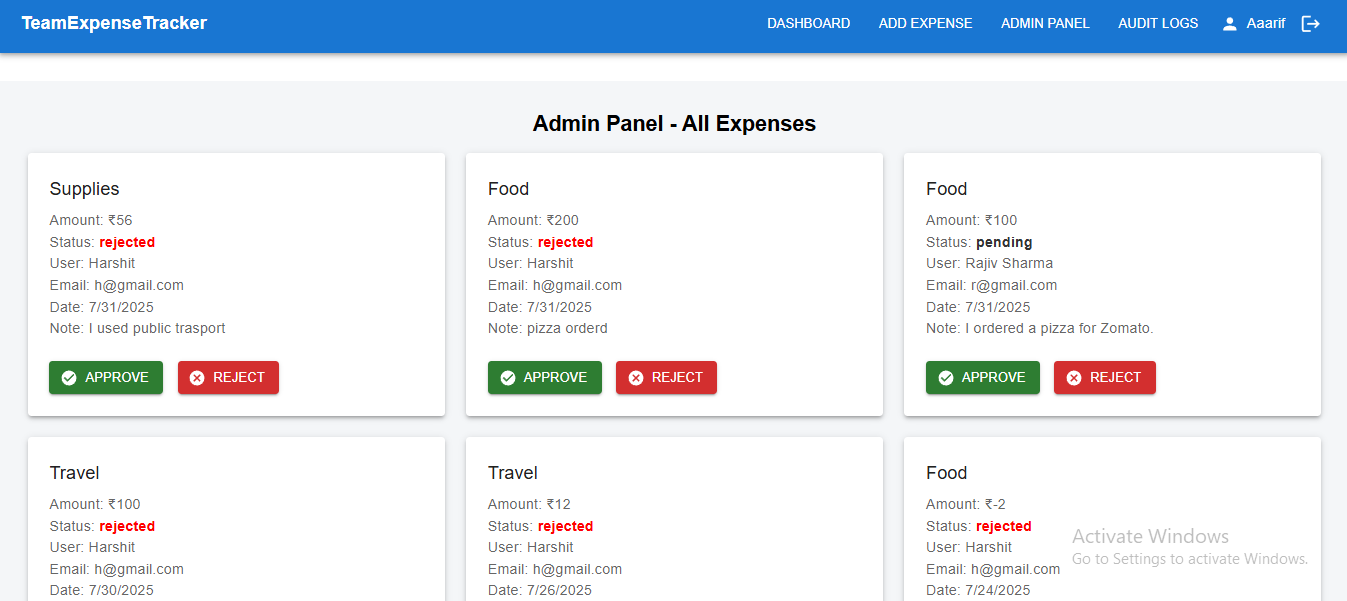
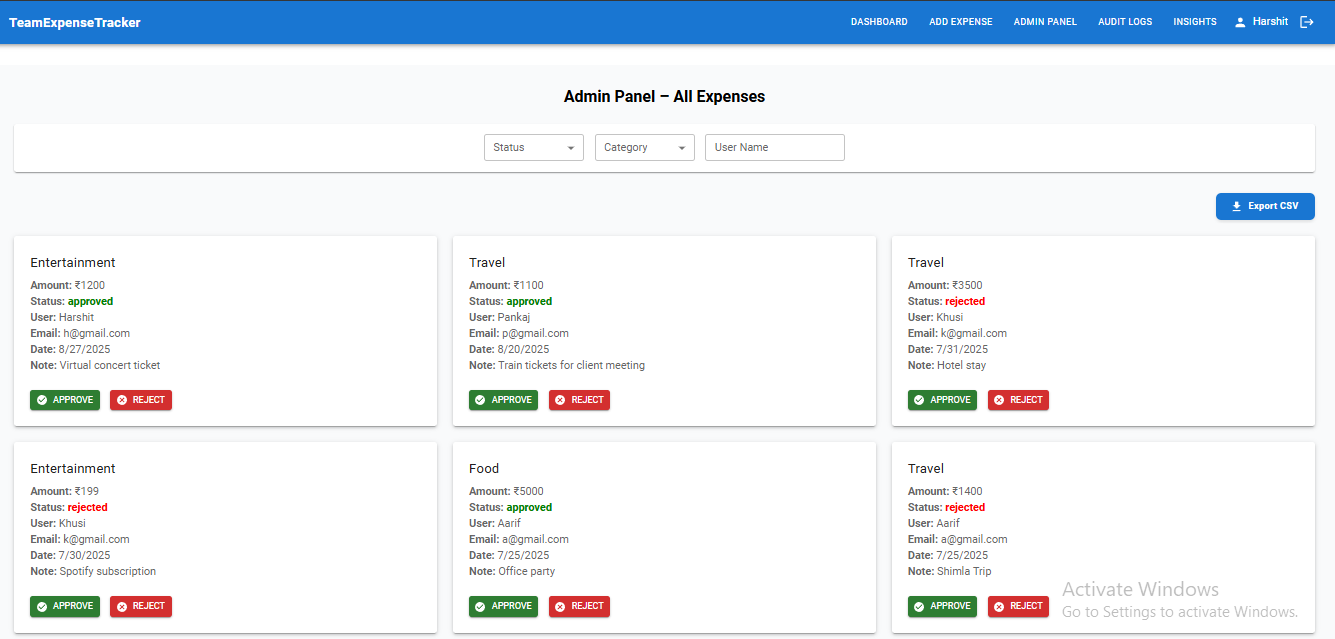
readme updated

diff --git a/README.md b/README.md
@@ -16,11 +16,14 @@ A full-stack MERN (MongoDB, Express, React, Node.js) application to manage and t
 ## 📦 Features
 
 - User Registration & Login (JWT-based)
-- Add/Edit/Delete Expenses
-- Expense filtering by date/category
-- Dashboard with total and recent expenses
-- Responsive UI using Material UI / TailwindCSS
-- Toast notifications for feedback
+- Add, Edit, and Delete Expenses
+- Expense Filtering by Date and Category
+- Dashboard for Total and Recent Expenses
+- Admin Panel to View All Expenses and Audit Logs
+- CSV Export for Admins
+- Insight Charts using Recharts
+- Responsive UI with TailwindCSS / Material UI
+- Toast Notifications for Feedback
 
 ---
 
@@ -29,6 +32,7 @@ A full-stack MERN (MongoDB, Express, React, Node.js) application to manage and t
 - **Frontend:** React, Redux Toolkit, TailwindCSS or MUI, Axios
 - **Backend:** Node.js, Express.js, MongoDB, Mongoose, JWT
 - **Deployment:** Render (Backend), Vercel/Render (Frontend)
+- **Charting:** Recharts (Insights)
 
 ---
 
@@ -102,60 +106,60 @@ npm run dev
 
 ## 📁 Folder Structure
 
-```
 expense-tracker/
 ├── backend/
-│ ├── server.js
-│ ├── config/
-│ ├── middlewares/
-│ │ ├── authMiddleware.js
-│ │ ├── errorHandler.js
-│ │ └── notFound.js
-│ ├── routes/
-│ │ ├── authRoutes.js
-│ │ ├── expenseRoutes.js
-│ │ └── auditRoutes.js
-│ ├── controllers/
-│ │ ├── authController.js
-│ │ ├── expenseController.js
-│ │ └── auditController.js
-│ ├── models/
-│ │ ├── User.js
-│ │ ├── Expense.js
-│ │ └── AuditLog.js
-│ └── utils/
-│ └── generateToken.js
+│   ├── server.js
+│   ├── config/
+│   ├── middlewares/
+│   │   ├── authMiddleware.js
+│   │   ├── errorHandler.js
+│   │   └── notFound.js
+│   ├── routes/
+│   │   ├── authRoutes.js
+│   │   ├── expenseRoutes.js
+│   │   └── auditRoutes.js
+│   ├── controllers/
+│   │   ├── authController.js
+│   │   ├── expenseController.js
+│   │   └── auditController.js
+│   ├── models/
+│   │   ├── User.js
+│   │   ├── Expense.js
+│   │   └── AuditLog.js
+│   └── utils/
+│       └── generateToken.js
 │
 ├── frontend/
-│ ├── App.jsx
-│ ├── main.jsx
-│ ├── components/
-│ │ ├── Header.jsx
-│ │ ├── ProtectedRoute.jsx
-│ │ ├── Footer.jsx
-│ ├── pages/
-│ │ ├── LoginPage.jsx
-│ │ ├── RegisterPage.jsx
-│ │ ├── Dashboard.jsx
-│ │ ├── AdminPanel.jsx
-│ │ ├── ExpenseForm.jsx
-│ │ └── AuditLogs.jsx
-│ ├── context/
-│ │ └── AuthContext.jsx
-│ ├── api/
-│ │ ├── auth.js
-│ │ ├── audit.js
-│ │ ├── expense.js
-│ │ └── axios.js
+│   ├── App.jsx
+│   ├── main.jsx
+│   ├── components/
+│   │   ├── Header.jsx
+│   │   ├── ProtectedRoute.jsx
+│   │   ├── Footer.jsx
+│   ├── pages/
+│   │   ├── LoginPage.jsx
+│   │   ├── RegisterPage.jsx
+│   │   ├── Dashboard.jsx
+│   │   ├── AdminPanel.jsx
+│   │   ├── ExpenseForm.jsx
+│   │   ├── AuditLogs.jsx
+│   │   └── Insight.jsx
+│   ├── context/
+│   │   └── AuthContext.jsx
+│   ├── api/
+│   │   ├── auth.js
+│   │   ├── audit.js
+│   │   ├── expense.js
+│   │   └── axios.js
 │
 ├── screenshots/
-│ ├── login.png
-│ ├── register.png
-│ ├── dashboard.png
-│ ├── expenses.png
-│ ├── admin-panel.png
-│ └── audit-logs.png
-```
+│   ├── login.png
+│   ├── register.png
+│   ├── dashboard.png
+│   ├── expenses.png
+│   ├── admin-panel.png
+│   ├── audit-logs.png
+│   └── insight.png
 
 ---
 
@@ -192,6 +196,11 @@ expense-tracker/
 
 ### 🛠 Admin Panel  
 ![Admin Panel](./screenshots/admin-panel.png)
+
+---
+
+### 📈 Insights (Charts via Recharts)
+![Admin Panel](./screenshots/Insights.png)
 
 ---
 
